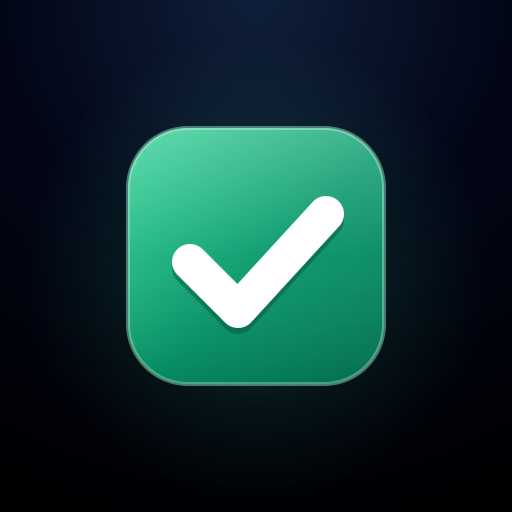
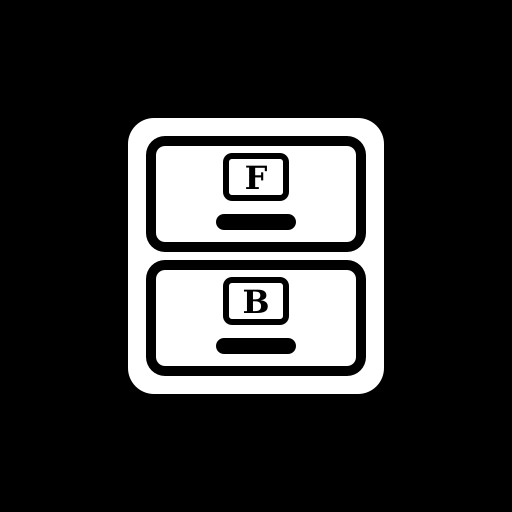
Add files via upload

diff --git a/sw.js b/sw.js
@@ -1,22 +1,21 @@
-// ══ SERVICE WORKER · Go-Tick ══
+// ══ SERVICE WORKER · Kindle Learning Tool (faktaftbahasa) ══
 // Tujuan: app boleh dipasang (download) di phone, dan masih boleh dibuka bila internet putus.
 //   1) Halaman app (index.html): ambil dari internet DAHULU, jadi versi terbaru selepas Deploy terus dipakai.
 //      Salinan simpanan hanya dipakai bila tiada internet, atau bila internet terlalu perlahan (lebih TUNGGU_MS).
 //   2) Fail kecil dalam repo ini (manifest, ikon): guna salinan simpanan, dan kemas kini di belakang.
 //   3) Skrip Firebase dari gstatic (versi tetap): simpan sekali, kemudian guna salinan itu.
 //   4) Firestore, Auth dan semua alamat luar lain TIDAK disentuh. Semuanya terus ke internet seperti biasa.
-//      (Data Go-Tick tanpa internet diurus oleh Firestore sendiri: tick disimpan di phone dan dihantar bila ada internet.)
 // Naikkan VERSI hanya bila fail ini diubah. Simpanan lama app ini dipadam sendiri.
-var APP = 'gotick';
+var APP = 'faktaftbahasa';
 var VERSI = APP + '-v1';
-var TUNGGU_MS = 3000;
+var TUNGGU_MS = 5000;
 var ASAS = ['./', 'manifest.json', 'icon-192.png', 'icon-512.png'];
 var SDK = [
   'https://www.gstatic.com/firebasejs/10.14.1/firebase-app-compat.js',
   'https://www.gstatic.com/firebasejs/10.14.1/firebase-auth-compat.js',
   'https://www.gstatic.com/firebasejs/10.14.1/firebase-firestore-compat.js'
 ];
-var TAJUK_APP = 'Go-Tick';
+var TAJUK_APP = 'Kindle Learning Tool';
 var SKOP = new URL(self.registration.scope).pathname;
 var UTAMA = new URL('./', self.registration.scope).href;
 
@@ -120,11 +119,11 @@ function luarTalian() {
   var html = '<!DOCTYPE html><html lang="ms"><head><meta charset="UTF-8">' +
     '<meta name="viewport" content="width=device-width, initial-scale=1.0">' +
     '<title>' + TAJUK_APP + '</title></head>' +
-    '<body style="margin:0;padding:24px;font-family:system-ui,sans-serif;background:#020617;color:#e5e7eb;text-align:center;">' +
-    '<h1 style="font-size:1.3rem;color:#34d399;">✓ ' + TAJUK_APP + '</h1>' +
+    '<body style="margin:0;padding:24px;font-family:Georgia,serif;background:#fff;color:#000;text-align:center;">' +
+    '<h1 style="font-size:1.2rem;">' + TAJUK_APP + '</h1>' +
     '<p style="line-height:1.6;">Tiada sambungan internet. App ini belum pernah dibuka semasa ada internet pada peranti ini, jadi belum ada salinan untuk dipaparkan.</p>' +
     '<p style="line-height:1.6;">Sambungkan internet, kemudian tekan butang di bawah.</p>' +
-    '<button onclick="location.reload()" style="padding:12px 22px;font-size:1rem;font-weight:600;border:none;border-radius:999px;background:linear-gradient(135deg,#059669,#047857);color:#fff;">Cuba Lagi</button>' +
+    '<button onclick="location.reload()" style="padding:12px 20px;font-size:1rem;font-weight:bold;border:2px solid #000;border-radius:8px;background:#000;color:#fff;">CUBA LAGI</button>' +
     '</body></html>';
   return new Response(html, { status: 503, headers: { 'Content-Type': 'text/html; charset=utf-8' } });
 }
